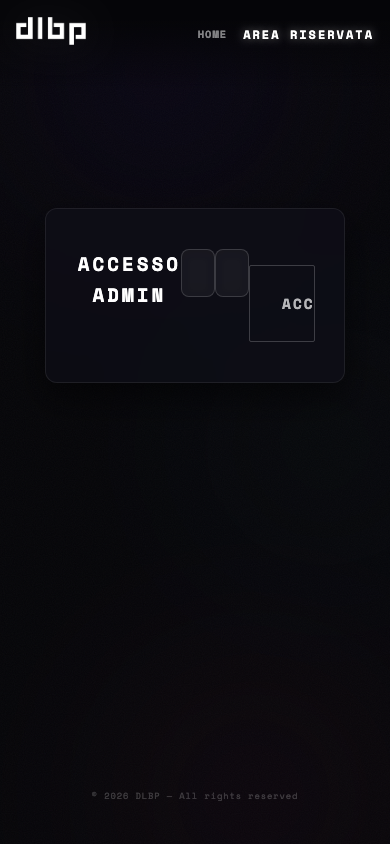
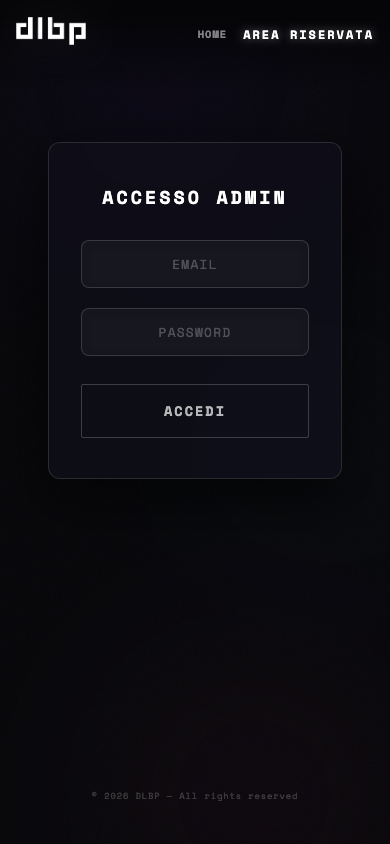
Fix(UI): Allow JavaScript display=none to hide .login-card section completely upon authentication

diff --git a/css/styles.css b/css/styles.css
@@ -1003,25 +1003,29 @@ input::placeholder {
 }
 /* Unified Login Card (Admin, PR, Scanner) - Strict Vertical Stacking */
 .login-card, #login-section {
-    display: flex !important;
-    flex-direction: column !important;
-    align-items: stretch !important;
-    justify-content: flex-start !important;
-    gap: 1.25rem !important;
-    max-width: 400px !important;
-    width: 90% !important;
-    margin: 2rem auto !important;
-    padding: 2.5rem 2rem !important;
-    background: rgba(15, 15, 25, 0.75) !important;
-    border: 1px solid rgba(255, 255, 255, 0.12) !important;
-    border-radius: var(--radius-lg) !important;
-    backdrop-filter: blur(24px) !important;
-    -webkit-backdrop-filter: blur(24px) !important;
-    box-shadow: 0 20px 50px rgba(0, 0, 0, 0.6) !important;
-    text-align: center !important;
-    opacity: 1 !important;
-    transform: none !important;
-    box-sizing: border-box !important;
+    display: flex;
+    flex-direction: column;
+    align-items: stretch;
+    justify-content: flex-start;
+    gap: 1.25rem;
+    max-width: 400px;
+    width: 90%;
+    margin: 2rem auto;
+    padding: 2.5rem 2rem;
+    background: rgba(15, 15, 25, 0.75);
+    border: 1px solid rgba(255, 255, 255, 0.12);
+    border-radius: var(--radius-lg);
+    backdrop-filter: blur(24px);
+    -webkit-backdrop-filter: blur(24px);
+    box-shadow: 0 20px 50px rgba(0, 0, 0, 0.6);
+    text-align: center;
+    opacity: 1;
+    transform: none;
+    box-sizing: border-box;
+}
+
+#login-section.hidden, .login-card.hidden {
+    display: none !important;
 }
 
 .login-card:hover, #login-section:hover {

diff --git a/.agents/skills/dlbp_testing_pr.py b/.agents/skills/dlbp_testing_pr.py
@@ -1,0 +1,36 @@
+# .agents/skills/dlbp-browser-testing/scripts/test_pr_login_hide.py
+import os
+import sys
+from playwright.sync_api import sync_playwright
+
+BASE_URL = "http://localhost:8080"
+SCREENSHOT_DIR = "archive/screenshots"
+
+def run_test():
+    with sync_playwright() as p:
+        browser = p.chromium.launch(headless=True)
+        page = browser.new_page(viewport={'width': 390, 'height': 844})
+
+        print("Navigazione su /pr.html...")
+        page.goto(f"{BASE_URL}/pr.html", wait_until="domcontentloaded")
+        page.wait_for_timeout(500)
+
+        # Pre-login check
+        login_visible_before = page.eval_on_selector("#login-section", "el => getComputedStyle(el).display !== 'none'")
+        print(f"Login section visibile prima dell'accesso: {login_visible_before}")
+
+        # Fill PR code (e.g. demo PR code or test)
+        pr_code_input = page.locator("#pr-code")
+        login_btn = page.locator("#login-btn")
+        if pr_code_input.is_visible():
+            pr_code_input.fill("TEST")
+            login_btn.click()
+            page.wait_for_timeout(1000)
+
+            # Check if login-section hides when dashboard opens or on valid auth
+            page.screenshot(path=f"{SCREENSHOT_DIR}/pr_login_test.png")
+
+        browser.close()
+
+if __name__ == "__main__":
+    run_test()
